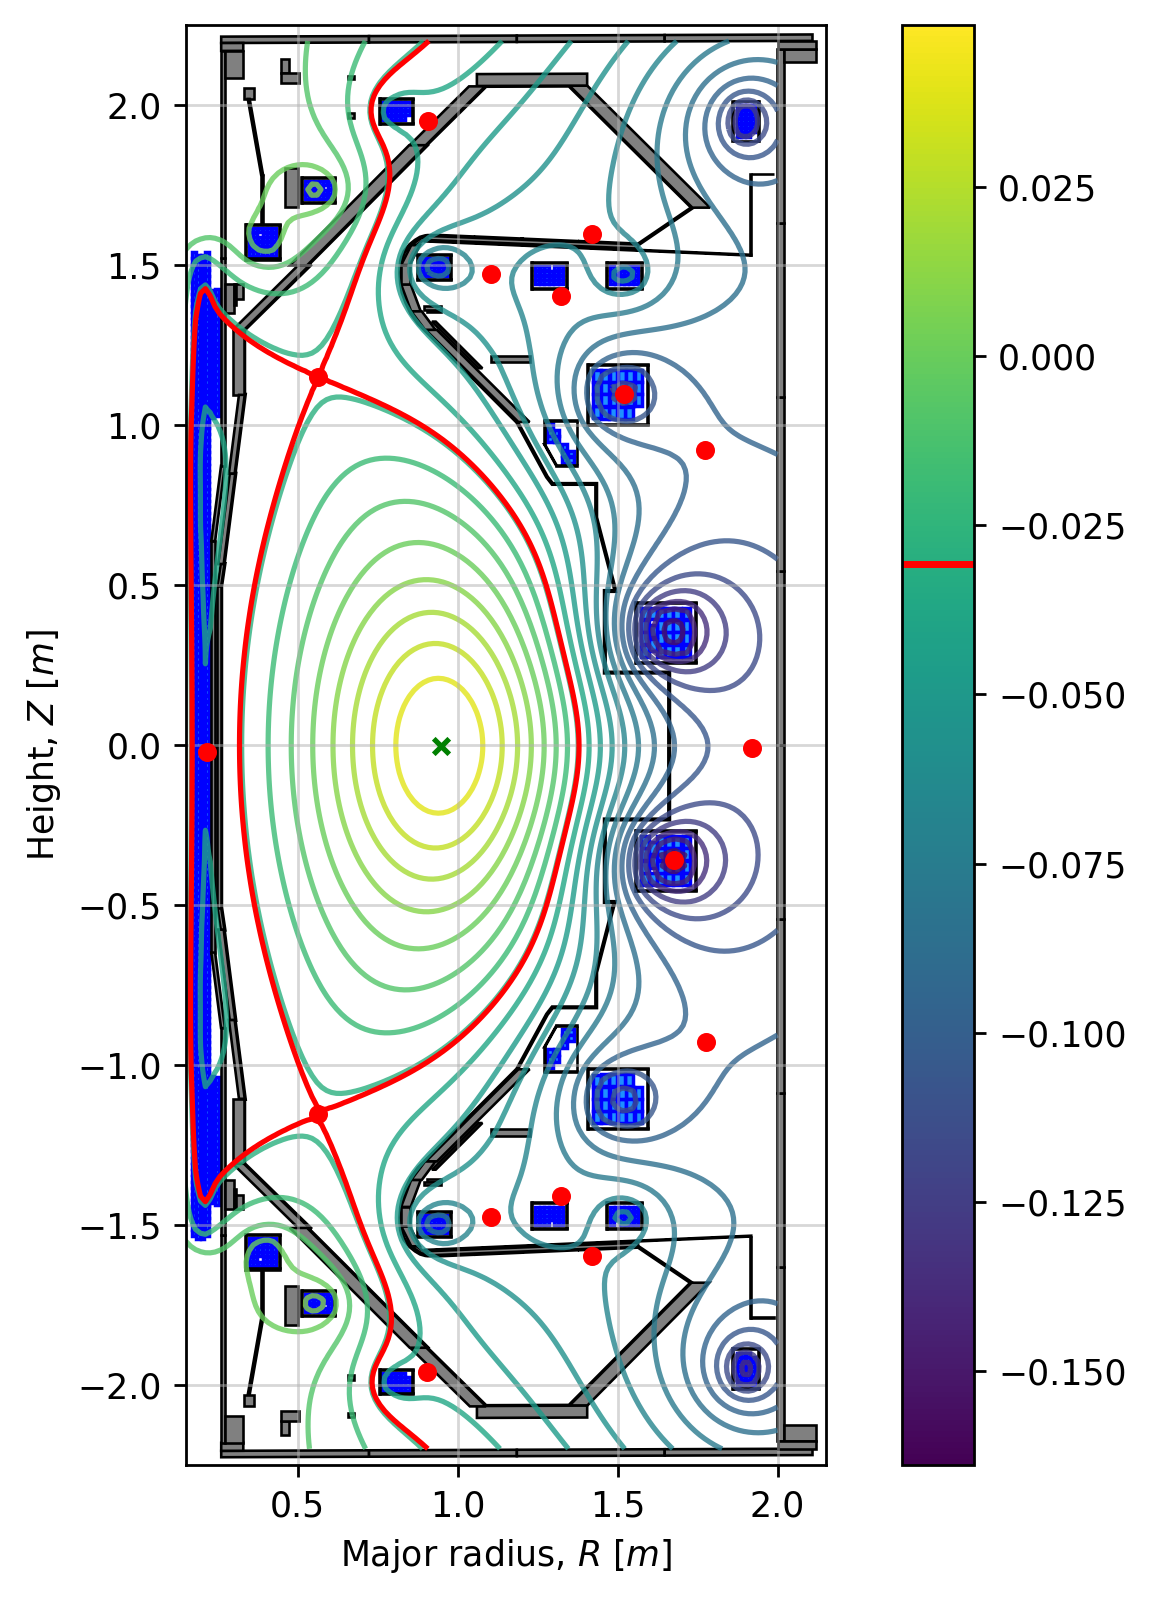
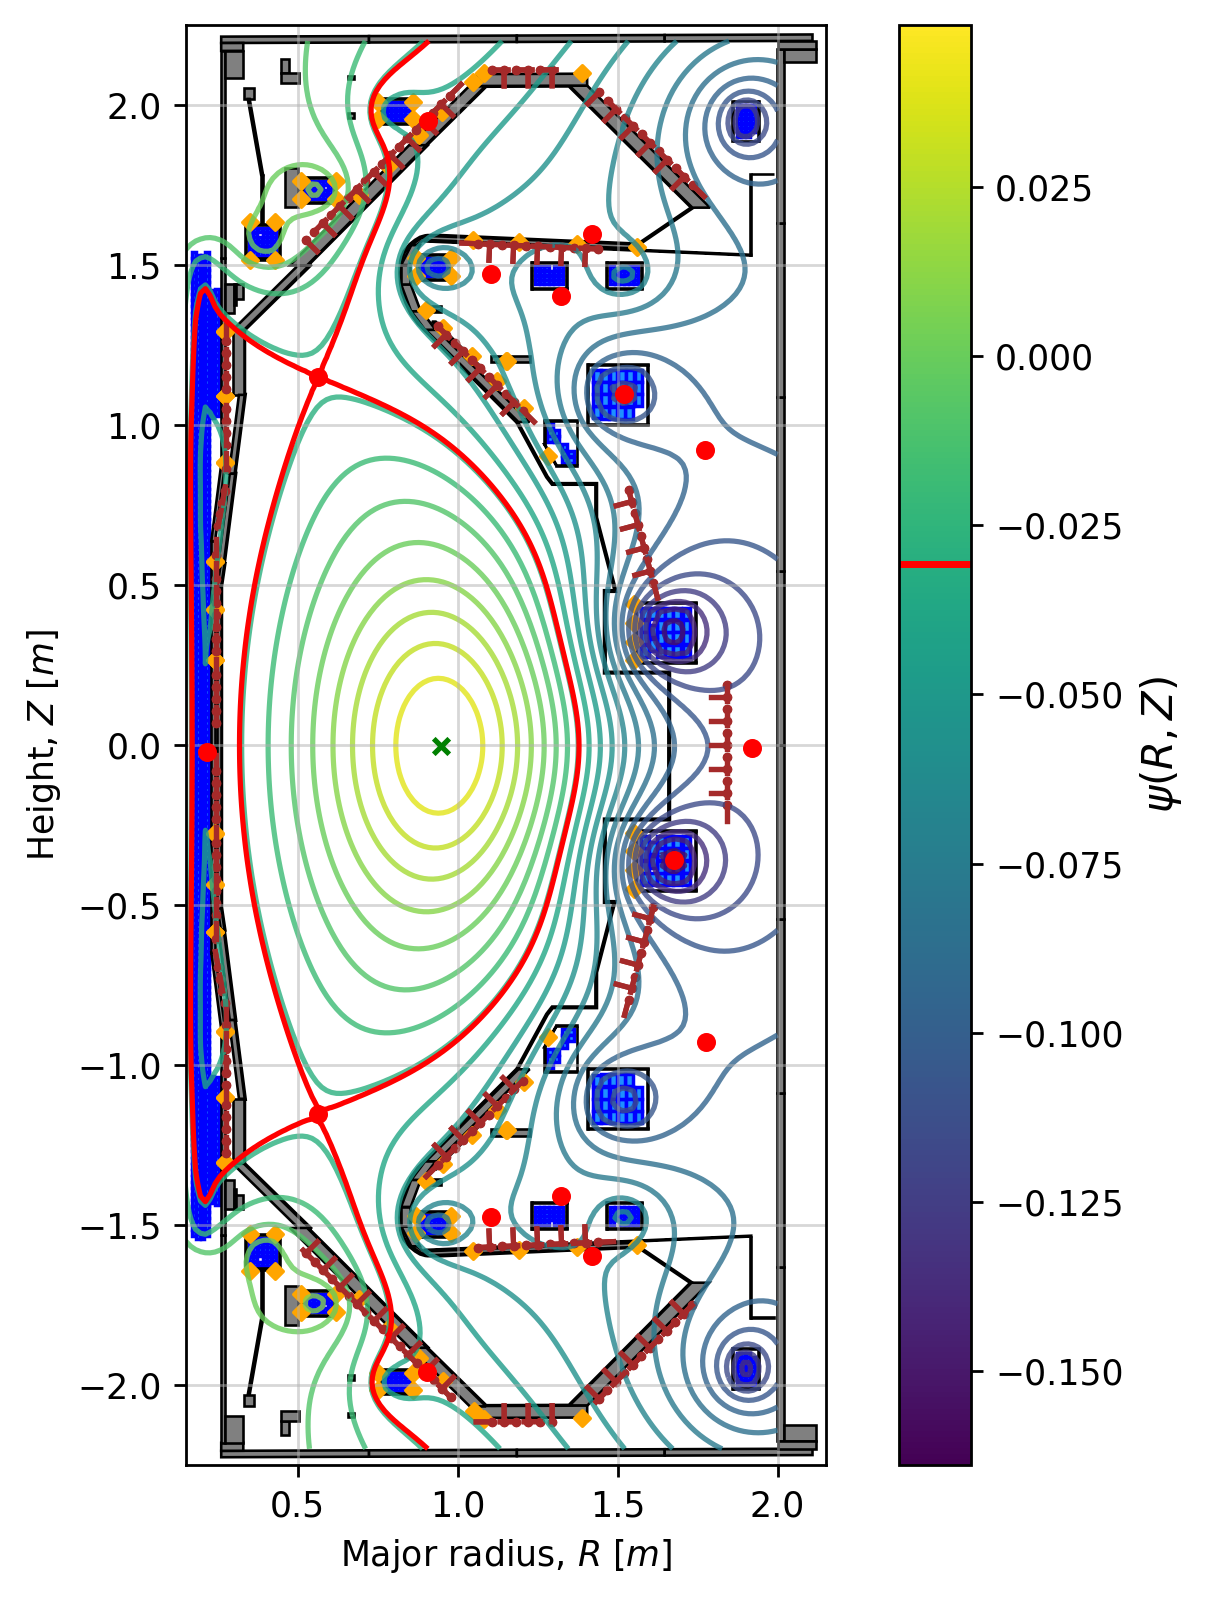
fixed eq plot

diff --git a/README.md b/README.md
@@ -23,13 +23,12 @@ FreeGSNKE is capable of solving both **static** (time-<u>in</u>dependent) and **
 
 These problems can be solved in a **user-specified tokamak geometry** that can include:
 
-| Feature | Purpose | Properties | 
-| ------ | ------ | ------ | 
-| Active poloidal field coils | Assigned currents | Location in $(R,Z)$-plane, 2D area $(dR,dZ)$,  |
-
-
-| active poloidal field coils | passive conducting structures | wall/limiter contours | magnetic diagnostic probes |
+| Tokamak feature | Purpose | Properties | Plot colour | 
 | ------ | ------ | ------ | ------ |
+| Active poloidal field coils | Can be assigned (voltage-driven) currents that maintain plasma shape and position. | Locations, sizes (areas), wirings (series/anti-series), polarities (+1 or -1), resistivities  (of coil materials), and number of windings. | Blue rectangles |
+| Passive conducting structures  | Can be assigned (induced eddy) currents that also impact plasma shape and position. | Locations, sizes, orientations (if available), and filaments (as passives can be refined if needed). | Dark grey parallelograms |
+| Wall and/or limiter contours  | Confines the plasma boundary (for computational purposes). | Locations. | Solid black line |
+| Magnetic diagnostic probes  | Can measure the poloidal flux (fluxloops) or the magnetic field strength (pickup coils) at specified locations. | Locations (for both) and orientations (for pickup coils). | Orange diamonds (fluxloops) and brown dots\lines (pickup coils) |
 
 Each problem is solved using **fourth-order accurate finite differences** and a **purpose-built Newton-Krylov method** for additional **stability and convergence** speed (over the Picard iterations used in FreeGS). For equilibria that have plasma current density profiles with steep edge gradients or sheet currents invoke an **adaptive mesh refinement** scheme on the plasma boundary for additional stability. 
 
@@ -37,7 +36,7 @@ Each problem is solved using **fourth-order accurate finite differences** and a 
   <img src="images/mastu_eq.png" alt="mastu_eq" width="350"><br><br>
 </div>
 
-Above we show an example of an equilibrium calculated using FreeGSNKE with a **MAST-U** machine description. 
+Above we show an example of an equilibrium calculated using FreeGSNKE with a **MAST-U** machine description. The contours represent the contours of constant poloidal flux and the different tokamak features are plotted in various colours (refer back to table above). 
 
 ## Getting started
 
